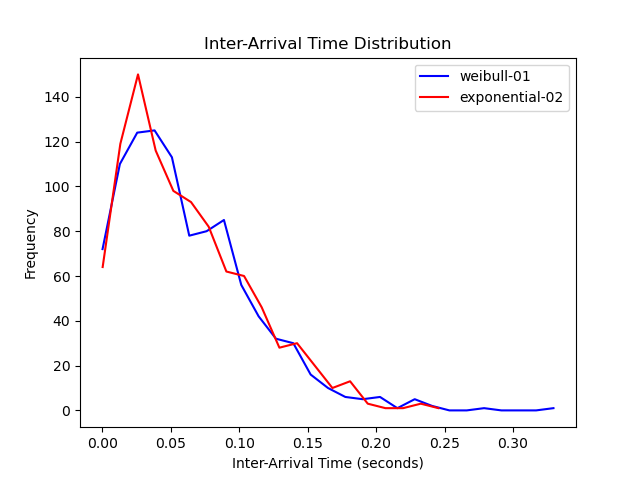
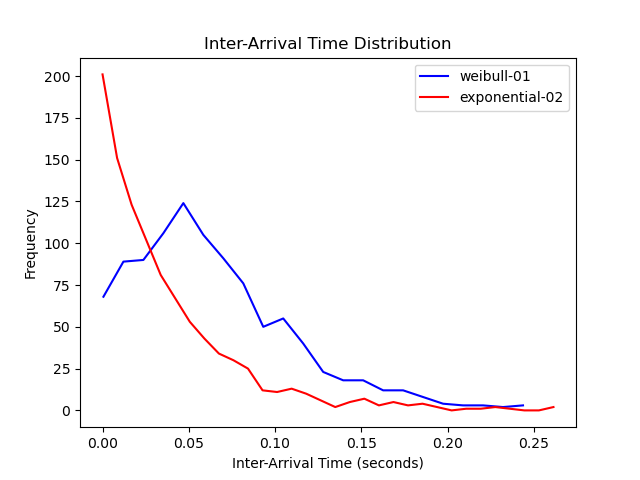
correções

diff --git a/Sources/trace-plot/test.py b/Sources/trace-plot/test.py
@@ -5,7 +5,8 @@ from Plotter import Plotter
 
 
 we1_data = RandomData(database_file="weibull", name="weibull-01", color="blue")
-we2_data = RandomData(database_file="exponential", name="exponential-02", color="red")
+we2_data = RandomData(database_file="exponential", name="exponential-01", color="red")
+we3_data = RandomData(database_file="pareto", name="pareto-01", color="purple")
 
 cfg_str1 = '{"seed": 42, "n_packets": 80, "n_flows": 5}'
 cfg_str2 = '{"seed": 58943, "n_packets": 130, "n_flows": 5}'
@@ -14,7 +15,7 @@ sp2_data = RandomData(database_file="3spikes", name="3spike-01", color="red", co
 
 out_dir = os.path.join("plots/test01")
 
-plot_list = [we1_data, we2_data]
+plot_list = [we1_data, we2_data, we3_data]
 Plotter.plot_interarrival_cdf(plot_data_list=plot_list, out_dir=out_dir)
 Plotter.plot_inter_arrival_time_distribution(plot_data_list=plot_list, out_dir=out_dir)
 Plotter.plot_bandwidth_mbps(plot_data_list=[we1_data], out_dir=out_dir)

diff --git a/Sources/trace-plot/Database/RandomData.py b/Sources/trace-plot/Database/RandomData.py
@@ -49,9 +49,6 @@ class RandomData:
                 # weibull
                 self.np_inter_arrival_times = RandomData.sample_weibull_fix(self.n_packets)
 
-            # inter arrival times
-            self.np_inter_arrival_times = RandomData.sample_weibull_fix(self.n_packets)
-
             # arrival times
             arrivals = []
             acc = 0
@@ -158,7 +155,7 @@ class RandomData:
 
     @staticmethod
     def sample_exponential_fix(n):
-        return RandomData.sample_exponential(n, 0.3)
+        return RandomData.sample_exponential(n, 25.0)
 
     @staticmethod
     def sample_pareto_fix(n):
